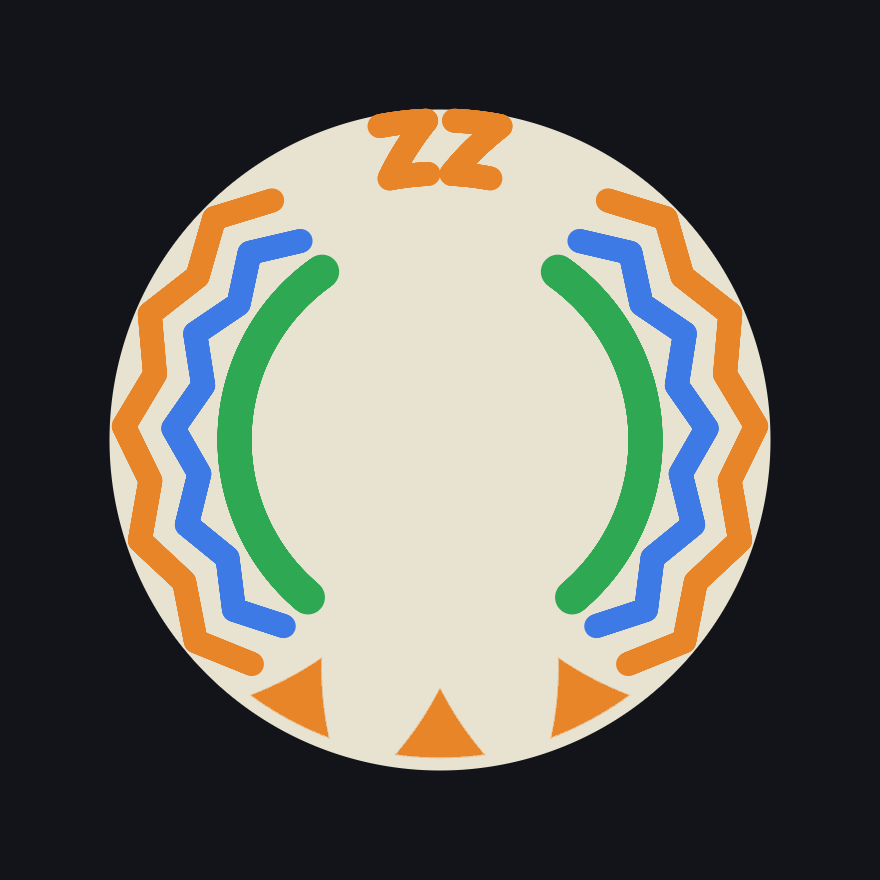
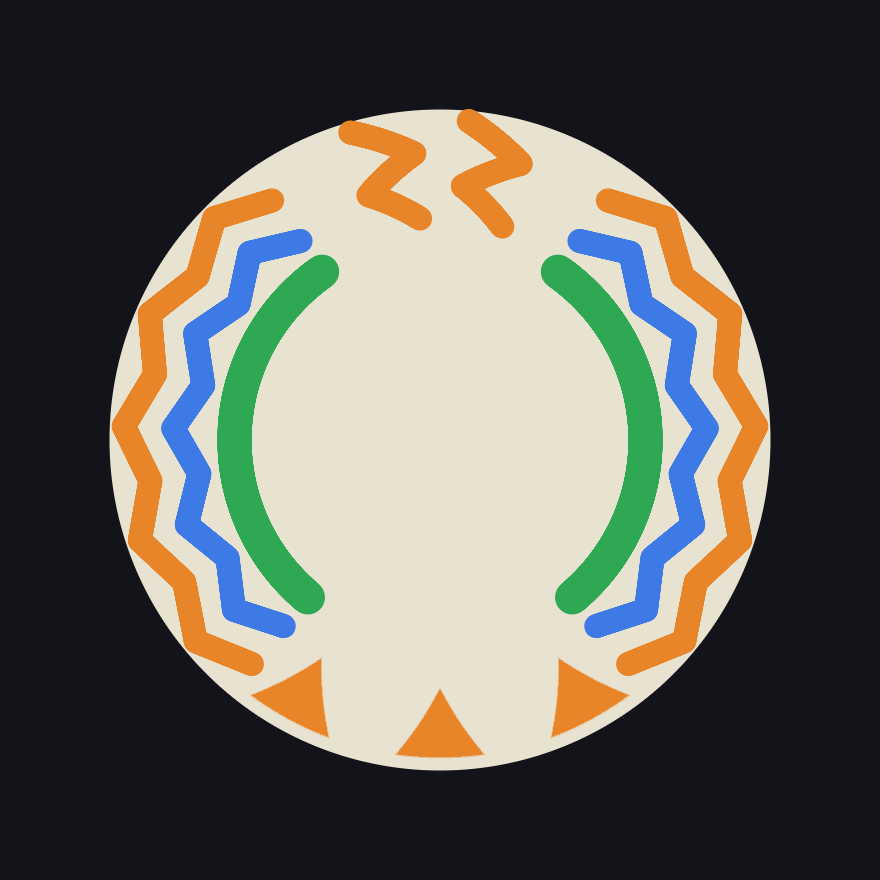
fix(game): redraw emblem moon as a thin sliver and Zs as vertical zags
Crescent Moon is a two-circle waning/waxing sliver opening right/down-right.
Two Zag Zs are parallel vertical lightning strokes, not letter Zs.

Changed region(s): [[0.3682, 0.1227, 0.6136, 0.2761]]

diff --git a/apa-kan/game/src/visual.rs b/apa-kan/game/src/visual.rs
@@ -195,7 +195,7 @@ pub const TILE_RING_NOTCH_1: f32 = 64.0 * std::f32::consts::PI / 180.0;
 pub const TILE_RING_NOTCH_2: f32 = 72.0 * std::f32::consts::PI / 180.0;
 /// Notch for 3 marks (~80°), wide enough that marks do not overlap the ends.
 pub const TILE_RING_NOTCH_3: f32 = 80.0 * std::f32::consts::PI / 180.0;
-/// Top emblem notch (~70°). Wide enough for two small Z glyphs or a moon.
+/// Top emblem notch (~70°). Wide enough for two vertical zags or a moon.
 pub const TILE_EMBLEM_NOTCH: f32 = 70.0 * std::f32::consts::PI / 180.0;
 /// Samples along an open tile-ring arc.
 pub const TILE_RING_ARC_SAMPLES: u32 = 96;
@@ -998,7 +998,7 @@ impl TileRingDraw {
 		(tile_center, mid, rho)
 	}
 
-	/// Crescent moon: a filled disc with a bite taken toward the tile rim.
+	/// Thin two-circle crescent (waning/waxing sliver), opening right/down-right.
 	pub fn crescent_poly(
 		self,
 		tile_center: [f32; 2],
@@ -1006,11 +1006,11 @@ impl TileRingDraw {
 		up: [f32; 2],
 	) -> Vec<[f32; 2]> {
 		let (origin, theta, rho) = self.emblem_frame(tile_center, tile_radius, up);
-		let r = self.capture_mark_r(tile_radius, 2) * 1.15;
+		let r = self.capture_mark_r(tile_radius, 2) * 1.35;
 		crescent_on_arc(origin, theta, rho, r)
 	}
 
-	/// Strip triangles for the crescent C (centroid fan would fill the bite).
+	/// Strip triangles for the two-circle crescent (a centroid fan would fill the bite).
 	pub fn crescent_tris(
 		self,
 		tile_center: [f32; 2],
@@ -1018,11 +1018,11 @@ impl TileRingDraw {
 		up: [f32; 2],
 	) -> Vec<[[f32; 2]; 3]> {
 		let (origin, theta, rho) = self.emblem_frame(tile_center, tile_radius, up);
-		let r = self.capture_mark_r(tile_radius, 2) * 1.15;
+		let r = self.capture_mark_r(tile_radius, 2) * 1.35;
 		crescent_tris_on_arc(origin, theta, rho, r)
 	}
 
-	/// Two small angular Z glyphs sitting in the top notch.
+	/// Two parallel vertical zigzags (lightning / `>` over `<`) in the top notch.
 	pub fn two_zag_z_polys(
 		self,
 		tile_center: [f32; 2],
@@ -1030,9 +1030,17 @@ impl TileRingDraw {
 		up: [f32; 2],
 	) -> [Vec<[f32; 2]>; 2] {
 		let (origin, theta, rho) = self.emblem_frame(tile_center, tile_radius, up);
-		let r = self.capture_mark_r(tile_radius, 2) * 0.72;
-		let sep = r * 1.35;
-		[zag_z_on_arc(origin, theta, rho, r, -sep), zag_z_on_arc(origin, theta, rho, r, sep)]
+		// Amplitude and gap are in stroke units so the bends stay visible
+		// (a capture-mark-sized zigzag is thinner than the zag stroke).
+		let stroke = self.zag_stroke.max(0.55);
+		let h = stroke * 2.15;
+		let w = stroke * 1.25;
+		let sep = stroke * 2.4;
+		let n0 = -stroke * 0.95;
+		[
+			zag_zigzag_on_arc(origin, theta, rho, h, w, n0, -sep),
+			zag_zigzag_on_arc(origin, theta, rho, h, w, n0, sep),
+		]
 	}
 }
 
@@ -1093,29 +1101,28 @@ fn crescent_on_arc(origin: [f32; 2], theta: f32, rho: f32, r: f32) -> Vec<[f32; 
 	out
 }
 
+/// Thin ~20% sliver: outer disc minus a similar disc offset toward the opening.
+/// Opening is right / lower-right in tile-up `(s, n)` (`+s` right, `+n` toward the rim).
 fn crescent_arcs(origin: [f32; 2], theta: f32, rho: f32, r: f32) -> (Vec<[f32; 2]>, Vec<[f32; 2]>) {
-	use std::f32::consts::{PI, TAU};
-	// Outer disc plus a bite disc shifted toward the rim (+n) so the C
-	// reads as a crescent, not a doughnut.
-	let n = TILE_MARK_DOT_SAMPLES.max(16);
-	let opening = 0.55_f32;
+	use std::f32::consts::PI;
+	let n = TILE_MARK_DOT_SAMPLES.max(20);
 	let outer_r = r;
-	let inner_r = r * 0.72;
-	let bite = r * 0.28;
-	let mut outer = Vec::with_capacity(n as usize + 1);
-	let mut inner = Vec::with_capacity(n as usize + 1);
-	for i in 0..=n {
-		let a = PI * 0.5 + opening * 0.5 + (TAU - opening) * i as f32 / n as f32;
-		outer.push(polar_local_to_world(origin, theta, rho, outer_r * a.cos(), outer_r * a.sin()));
-		inner.push(polar_local_to_world(
-			origin,
-			theta,
-			rho,
-			inner_r * a.cos(),
-			inner_r * a.sin() + bite,
-		));
-	}
-	(outer, inner)
+	let inner_r = r * 0.97;
+	let offset = r * 0.32;
+	// ~−38° from +s toward −n: horns point right and down-right, back is upper-left.
+	let open = -38.0 * PI / 180.0;
+	let (os, on) = (open.cos(), open.sin());
+	let c0 = [0.0_f32, 0.0_f32];
+	let c1 = [offset * os, offset * on];
+	let Some((p, q)) = circle_circle_hits(c0, outer_r, c1, inner_r) else {
+		return (Vec::new(), Vec::new());
+	};
+	let back = [-os * outer_r, -on * outer_r];
+	let terminator = [c1[0] - os * inner_r, c1[1] - on * inner_r];
+	let mut outer = sample_circle_arc(c0, outer_r, p, q, back, n);
+	let mut inner = sample_circle_arc(c1, inner_r, p, q, terminator, n);
+	center_local_pair(&mut outer, &mut inner);
+	(warp_local(origin, theta, rho, &outer), warp_local(origin, theta, rho, &inner))
 }
 
 fn crescent_tris_on_arc(origin: [f32; 2], theta: f32, rho: f32, r: f32) -> Vec<[[f32; 2]; 3]> {
@@ -1128,11 +1135,95 @@ fn crescent_tris_on_arc(origin: [f32; 2], theta: f32, rho: f32, r: f32) -> Vec<[
 	tris
 }
 
-fn zag_z_on_arc(origin: [f32; 2], theta: f32, rho: f32, r: f32, s_off: f32) -> Vec<[f32; 2]> {
-	// Five corners of an angular Z in (s, n) local coords, then warped.
-	let h = r * 1.05;
-	let w = r * 0.85;
-	let verts = [[-w + s_off, h], [w + s_off, h], [-w + s_off, -h], [w + s_off, -h]];
+fn wrap_tau(a: f32) -> f32 {
+	use std::f32::consts::TAU;
+	((a % TAU) + TAU) % TAU
+}
+
+fn circle_circle_hits(
+	c0: [f32; 2],
+	r0: f32,
+	c1: [f32; 2],
+	r1: f32,
+) -> Option<([f32; 2], [f32; 2])> {
+	let dx = c1[0] - c0[0];
+	let dy = c1[1] - c0[1];
+	let d = dx.hypot(dy);
+	if d < 1e-5 || d > r0 + r1 || d < (r0 - r1).abs() {
+		return None;
+	}
+	let a = (d * d + r0 * r0 - r1 * r1) / (2.0 * d);
+	let h = (r0 * r0 - a * a).max(0.0).sqrt();
+	let mx = c0[0] + a * dx / d;
+	let my = c0[1] + a * dy / d;
+	let px = -dy / d * h;
+	let py = dx / d * h;
+	Some(([mx + px, my + py], [mx - px, my - py]))
+}
+
+fn sample_circle_arc(
+	c: [f32; 2],
+	radius: f32,
+	from: [f32; 2],
+	to: [f32; 2],
+	via: [f32; 2],
+	n: u32,
+) -> Vec<[f32; 2]> {
+	let a0 = (from[1] - c[1]).atan2(from[0] - c[0]);
+	let a1 = (to[1] - c[1]).atan2(to[0] - c[0]);
+	let av = (via[1] - c[1]).atan2(via[0] - c[0]);
+	let ccw_span = wrap_tau(a1 - a0);
+	let via_span = wrap_tau(av - a0);
+	let span = if via_span <= ccw_span + 1e-4 { ccw_span } else { -(wrap_tau(a0 - a1)) };
+	(0..=n)
+		.map(|i| {
+			let a = a0 + span * i as f32 / n as f32;
+			[c[0] + radius * a.cos(), c[1] + radius * a.sin()]
+		})
+		.collect()
+}
+
+fn center_local_pair(a: &mut [[f32; 2]], b: &mut [[f32; 2]]) {
+	let mut min_s = f32::INFINITY;
+	let mut max_s = f32::NEG_INFINITY;
+	let mut min_n = f32::INFINITY;
+	let mut max_n = f32::NEG_INFINITY;
+	for p in a.iter().chain(b.iter()) {
+		min_s = min_s.min(p[0]);
+		max_s = max_s.max(p[0]);
+		min_n = min_n.min(p[1]);
+		max_n = max_n.max(p[1]);
+	}
+	let ds = -0.5 * (min_s + max_s);
+	let dn = -0.5 * (min_n + max_n);
+	for p in a.iter_mut().chain(b.iter_mut()) {
+		p[0] += ds;
+		p[1] += dn;
+	}
+}
+
+fn warp_local(origin: [f32; 2], theta: f32, rho: f32, pts: &[[f32; 2]]) -> Vec<[f32; 2]> {
+	pts.iter()
+		.map(|p| polar_local_to_world(origin, theta, rho, p[0], p[1]))
+		.collect()
+}
+
+fn zag_zigzag_on_arc(
+	origin: [f32; 2],
+	theta: f32,
+	rho: f32,
+	h: f32,
+	w: f32,
+	n0: f32,
+	s_off: f32,
+) -> Vec<[f32; 2]> {
+	// Vertical lightning: top-left, down-right, down-left, down-right (`>` over `<`).
+	let verts = [
+		[-w + s_off, n0 + h],
+		[w + s_off, n0 + h / 3.0],
+		[-w + s_off, n0 - h / 3.0],
+		[w + s_off, n0 - h],
+	];
 	let m = TILE_MARK_TRI_EDGE_SAMPLES.max(3);
 	let mut out = Vec::new();
 	for i in 0..verts.len() - 1 {
@@ -4308,22 +4399,46 @@ mod tests {
 			}
 		}
 		let poly = draw.crescent_poly([0.0, 0.0], r, up);
-		assert!(poly.len() > 12, "crescent is a thick C");
+		assert!(poly.len() > 12, "crescent is a two-circle sliver");
 		let tris = draw.crescent_tris([0.0, 0.0], r, up);
 		assert!(tris.len() > 16, "crescent is a C strip, not a fan-filled disc");
 		let mut dist_sum = 0.0f32;
+		let mut min_x = f32::INFINITY;
+		let mut left_y = 0.0f32;
+		let mut mean_y = 0.0f32;
 		for p in &poly {
 			dist_sum += p[0].hypot(p[1]);
 			assert!(p[1] > 0.0, "crescent sits at the top of the tile in Bevy coords");
+			mean_y += p[1];
+			if p[0] < min_x {
+				min_x = p[0];
+				left_y = p[1];
+			}
 		}
+		mean_y /= poly.len() as f32;
 		assert!(dist_sum / poly.len() as f32 > r * 0.4);
+		assert!(poly.iter().any(|p| p[0] > 0.0), "horns open toward +s (right)");
+		assert!(min_x < 0.0, "back of the sliver sits on the left");
+		assert!(
+			left_y > mean_y,
+			"back of the crescent sits upper-left, left_y={left_y} mean_y={mean_y}"
+		);
 		let zigs = draw.two_zag_z_polys([0.0, 0.0], r, up);
 		assert_eq!(zigs.len(), 2);
 		for zig in &zigs {
-			assert!(zig.len() >= 4, "each Z is an angular polyline");
+			assert!(zig.len() >= 4, "each zag is an angular polyline");
+			let mut min_zx = f32::INFINITY;
+			let mut max_zx = f32::NEG_INFINITY;
+			let mut min_zy = f32::INFINITY;
+			let mut max_zy = f32::NEG_INFINITY;
 			for p in zig {
-				assert!(p[1] > 0.0, "Z glyphs sit at the top, p={p:?}");
+				assert!(p[1] > 0.0, "zag glyphs sit at the top, p={p:?}");
+				min_zx = min_zx.min(p[0]);
+				max_zx = max_zx.max(p[0]);
+				min_zy = min_zy.min(p[1]);
+				max_zy = max_zy.max(p[1]);
 			}
+			assert!(max_zy - min_zy > max_zx - min_zx, "each zag is taller than wide");
 		}
 		let zs_notches = tile_notches(zs, down);
 		assert_eq!(zs_notches.len(), 2);

diff --git a/rfc/rfc-001-001-006-emblems/README.md b/rfc/rfc-001-001-006-emblems/README.md
@@ -67,8 +67,8 @@ Emblems sit at the **top** of the tile, warped/rotated with the face like captur
 
 - Non-empty emblem: rings (normal, zag, braid, bead) open a ~70° **C-notch** at the top, same idea as the capture-mark notch.
 - Empty slot: full rings at the top.
-- Crescent Moon: a thick C (filled) opening toward the rim.
-- Two Zag Zs: two small angular Z strokes.
+- Crescent Moon: a thin two-circle sliver (waxing/waning moon), back on the upper-left, horns pointing right and down-right. Solid fill, no star.
+- Two Zag Zs: two parallel vertical zigzags (lightning: `>` stacked over `<`), sharp corners, uniform stroke.
 
 Desktop PNG close-ups: [`emblem_crescent_dot.png`](../../apa-kan/game/screenshots/emblem_crescent_dot.png), [`emblem_crescent_triangle.png`](../../apa-kan/game/screenshots/emblem_crescent_triangle.png), [`emblem_zs_dot.png`](../../apa-kan/game/screenshots/emblem_zs_dot.png), [`emblem_zs_triangle.png`](../../apa-kan/game/screenshots/emblem_zs_triangle.png).
 
